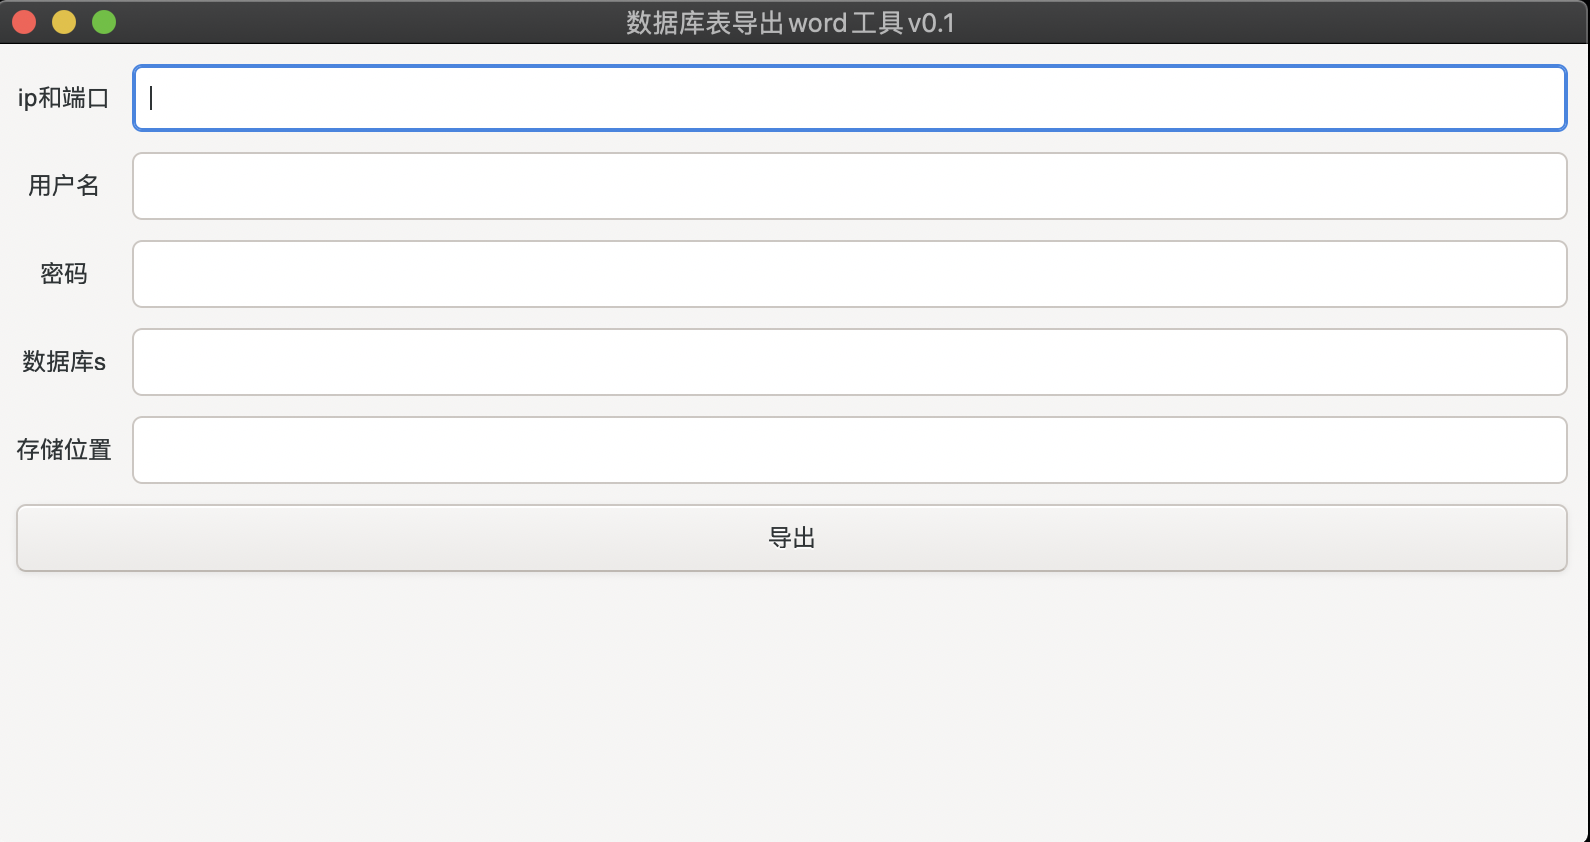
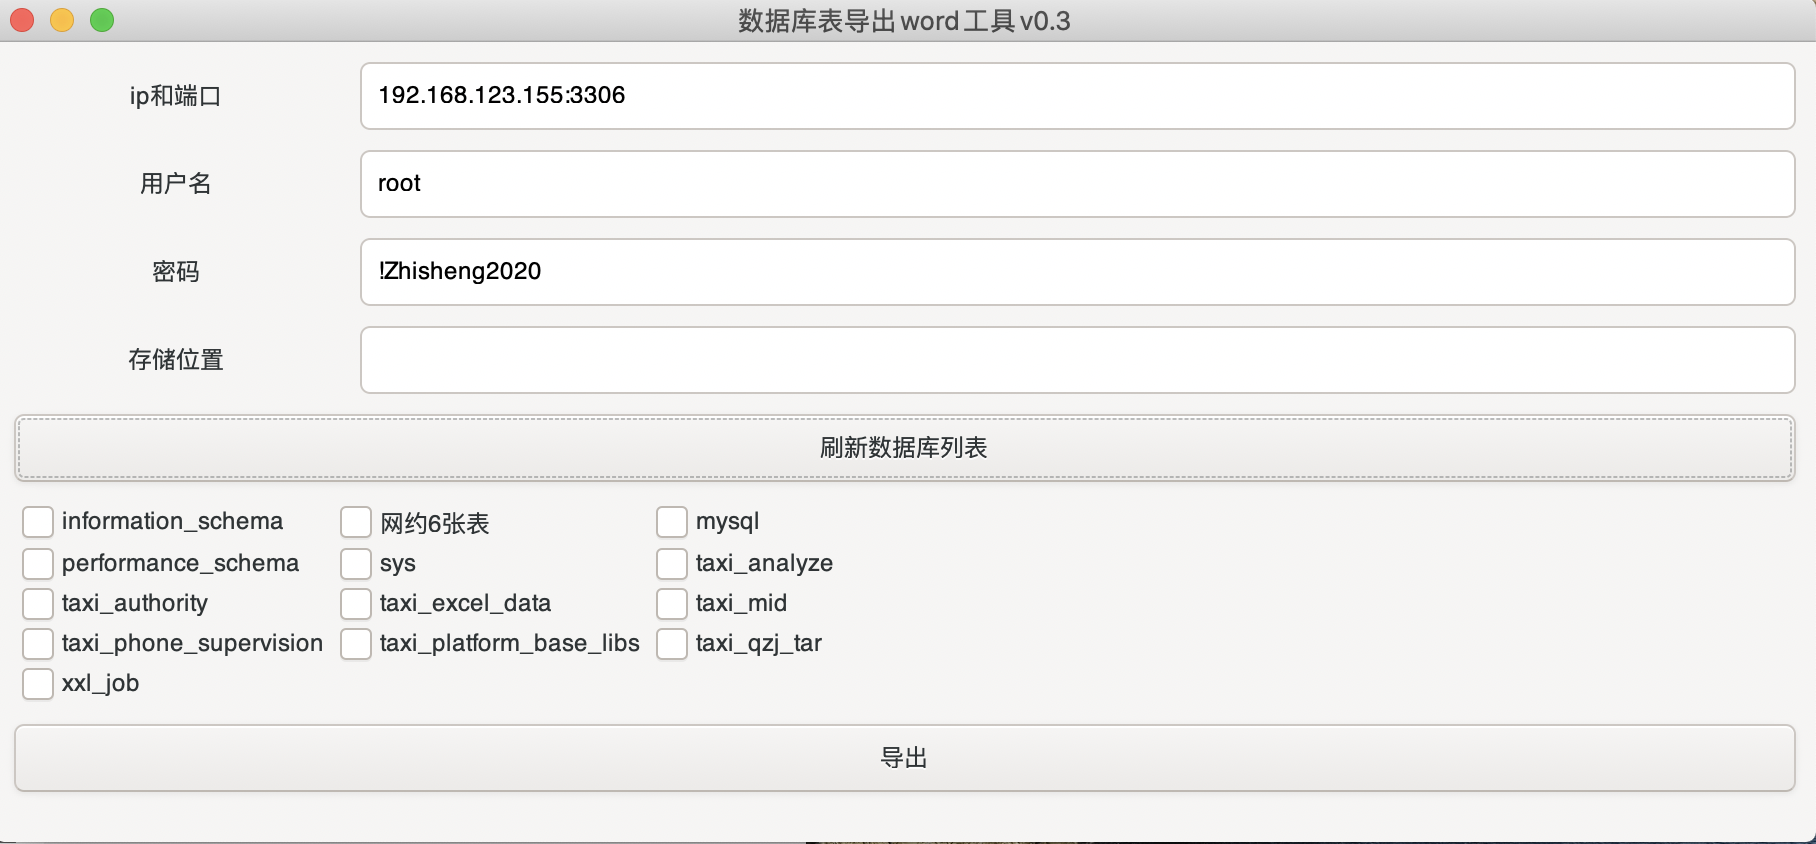
feat:添加构建的makefile和更新主界面图片和readme文档

diff --git a/README.md b/README.md
@@ -19,10 +19,6 @@
 
 > 数据库的登录密码
 
-* 数据库名称
-
-> 要导出表结构的数据库名称，多个数据库用"，"分隔。不能出现不必要的空格，否则会认为空格也是数据库名称的一部分
-
 * 存储位置
 
 > 导出的word文档存放的位置
